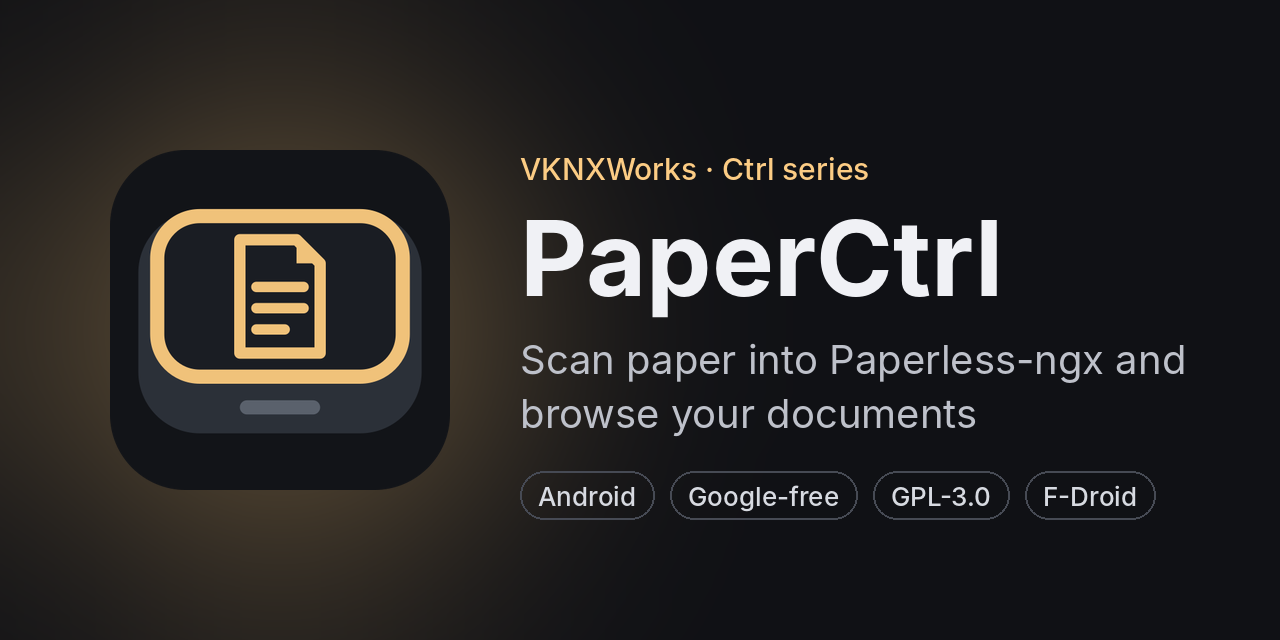
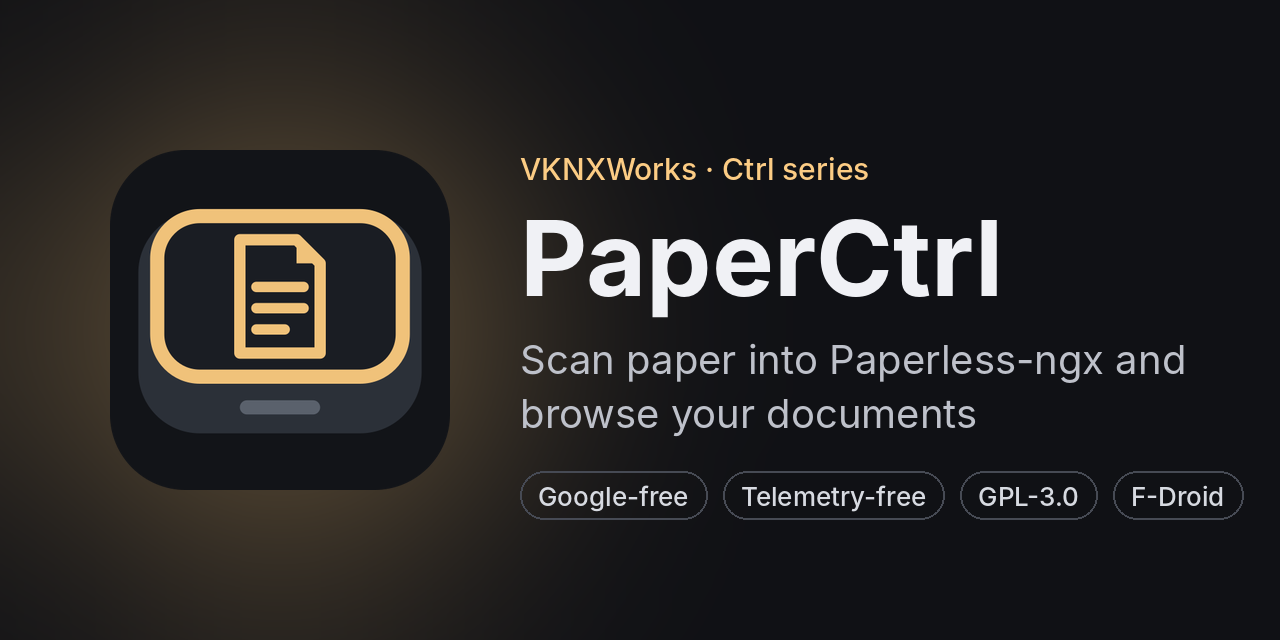
PaperCtrl 0.3.3: remove the usage stats, telemetry-free
Claude-Session: https://claude.ai/code/session_01EwhEpZ1DKRJef9Cqeiv5g2

Changed region(s): [[0.4062, 0.7188, 0.9688, 0.8125]]

diff --git a/app/src/main/java/com/vknxworks/paperctrl/share/ShareActivity.kt b/app/src/main/java/com/vknxworks/paperctrl/share/ShareActivity.kt
@@ -31,7 +31,6 @@ import com.vknxworks.paperctrl.data.api.UploadMeta
 import com.vknxworks.paperctrl.data.queue.StagedFile
 import com.vknxworks.paperctrl.data.queue.Staging
 import com.vknxworks.paperctrl.data.settings.ThemeChoice
-import com.vknxworks.paperctrl.data.telemetry.Telemetry
 import com.vknxworks.paperctrl.ui.theme.PaperCtrlTheme
 import kotlinx.coroutines.Dispatchers
 import kotlinx.coroutines.launch
@@ -128,10 +127,7 @@ class ShareActivity : ComponentActivity() {
                 }
                 // A title only makes sense for a single document.
                 val perDoc = if (docs.size == 1) meta else meta.copy(title = null)
-                // Read before queueing: the queue moves the files.
-                val stats = uploadStats(all, docs)
                 docs.forEach { c.queue.enqueue(serverId, it.file, it.name, it.mimeType, perDoc) }
-                stats.forEach { c.telemetry.track("document_uploaded", it) }
                 Toast.makeText(
                     this@ShareActivity,
                     resources.getQuantityString(R.plurals.share_queued, docs.size, docs.size),
@@ -144,40 +140,6 @@ class ShareActivity : ComponentActivity() {
                 Toast.makeText(this@ShareActivity, getString(R.string.share_prepare_failed), Toast.LENGTH_LONG).show()
             }
         }
-    }
-
-    /**
-     * Usage stats (only if the user opted in): where each document came from, roughly how many pages it
-     * has and what kind of file it is. Never its name, contents, details or server.
-     */
-    private suspend fun uploadStats(all: List<StagedFile>, docs: List<StagedFile>): List<Map<String, Any>> {
-        if (!container.telemetry.available) return emptyList()
-        val source = if (intent.getStringExtra(EXTRA_SOURCE) == SOURCE_IMPORT) "import" else "share"
-        val imageCount = all.count { it.isImage }
-        return docs.map { doc ->
-            // The PDF made by combining the shared images isn't one of the shared files.
-            val merged = doc.isPdf && all.none { it.file == doc.file }
-            val pages = when {
-                merged -> imageCount
-                doc.isImage -> 1
-                doc.isPdf -> pdfPageCount(doc.file)
-                else -> null
-            }
-            val kind = when {
-                merged -> "images_merged"
-                doc.isPdf -> "pdf"
-                doc.isImage -> "image"
-                doc.mimeType.startsWith("text/") -> "text"
-                else -> "other"
-            }
-            mapOf("source" to source, "pages" to Telemetry.pageBucket(pages), "file_kind" to kind)
-        }
-    }
-
-    private suspend fun pdfPageCount(file: File): Int? = withContext(Dispatchers.IO) {
-        runCatching {
-            ParcelFileDescriptor.open(file, ParcelFileDescriptor.MODE_READ_ONLY).use { fd -> PdfRenderer(fd).use { it.pageCount } }
-        }.getOrNull()
     }
 
     override fun onDestroy() {
@@ -215,16 +177,11 @@ class ShareActivity : ComponentActivity() {
             "application/vnd.oasis.opendocument.presentation",
         )
 
-        /** Where the files came from, for the opt-in usage stats only. */
-        private const val EXTRA_SOURCE = "com.vknxworks.paperctrl.extra.SOURCE"
-        private const val SOURCE_IMPORT = "import"
-
         /** Opens the share screen for files picked inside the app. */
         fun intent(context: Context, uris: List<Uri>): Intent =
             Intent(context, ShareActivity::class.java)
                 .setAction(Intent.ACTION_SEND_MULTIPLE)
                 .putParcelableArrayListExtra(Intent.EXTRA_STREAM, ArrayList(uris))
-                .putExtra(EXTRA_SOURCE, SOURCE_IMPORT)
                 .addFlags(Intent.FLAG_GRANT_READ_URI_PERMISSION)
     }
 }

diff --git a/app/src/main/java/com/vknxworks/paperctrl/data/settings/AppSettings.kt b/app/src/main/java/com/vknxworks/paperctrl/data/settings/AppSettings.kt
@@ -16,6 +16,7 @@ import kotlinx.coroutines.flow.SharingStarted
 import kotlinx.coroutines.flow.StateFlow
 import kotlinx.coroutines.flow.map
 import kotlinx.coroutines.flow.stateIn
+import kotlinx.coroutines.launch
 
 enum class ThemeChoice(@StringRes val label: Int) {
     SYSTEM(R.string.theme_system),
@@ -34,10 +35,6 @@ enum class PdfQualityChoice(@StringRes val label: Int, val quality: PdfQuality) 
 data class AppSettings(
     val theme: ThemeChoice = ThemeChoice.SYSTEM,
     val dynamicColor: Boolean = false,
-    /** Opt-in anonymous usage stats (off until the user says yes). */
-    val usageStats: Boolean = false,
-    /** Whether the one-time usage stats question has been answered. */
-    val usageStatsAsked: Boolean = false,
     /** Last filter picked in the scanner, used for new pages. */
     val scanFilter: ScanFilter = ScanFilter.ENHANCED,
     val autoCapture: Boolean = true,
@@ -57,8 +54,8 @@ class SettingsRepository(private val context: Context, scope: CoroutineScope) {
     private object K {
         val theme = stringPreferencesKey("theme")
         val dynamic = booleanPreferencesKey("dynamic_color")
-        val usageStats = booleanPreferencesKey("usage_stats")
-        val usageStatsAsked = booleanPreferencesKey("usage_stats_asked")
+        /** Left over from the optional stats removed in 0.3.3; deleted at start and on every save. */
+        val legacy = listOf(booleanPreferencesKey("usage_stats"), booleanPreferencesKey("usage_stats_asked"))
         val scanFilter = stringPreferencesKey("scan_filter")
         val autoCapture = booleanPreferencesKey("auto_capture")
         val pdfQuality = stringPreferencesKey("pdf_quality")
@@ -75,14 +72,17 @@ class SettingsRepository(private val context: Context, scope: CoroutineScope) {
         .map { it.toSettings() }
         .stateIn(scope, SharingStarted.Eagerly, AppSettings())
 
+    init {
+        // Delete what the removed optional stats stored, so nothing of them stays on the phone.
+        scope.launch { context.appDataStore.edit { p -> K.legacy.forEach { p.remove(it) } } }
+    }
+
     /** The stored settings as they're read and changed, without [settings]' placeholder defaults at start-up. */
     val stored: Flow<AppSettings> = context.appDataStore.data.map { it.toSettings() }
 
     private fun Preferences.toSettings() = AppSettings(
         theme = enumOr(this[K.theme], ThemeChoice.SYSTEM),
         dynamicColor = this[K.dynamic] ?: false,
-        usageStats = this[K.usageStats] ?: false,
-        usageStatsAsked = this[K.usageStatsAsked] ?: false,
         scanFilter = enumOr(this[K.scanFilter], ScanFilter.ENHANCED),
         autoCapture = this[K.autoCapture] ?: true,
         pdfQuality = enumOr(this[K.pdfQuality], PdfQualityChoice.STANDARD),
@@ -100,8 +100,7 @@ class SettingsRepository(private val context: Context, scope: CoroutineScope) {
             val s = transform(p.toSettings())
             p[K.theme] = s.theme.name
             p[K.dynamic] = s.dynamicColor
-            p[K.usageStats] = s.usageStats
-            p[K.usageStatsAsked] = s.usageStatsAsked
+            K.legacy.forEach { p.remove(it) }
             p[K.scanFilter] = s.scanFilter.name
             p[K.autoCapture] = s.autoCapture
             p[K.pdfQuality] = s.pdfQuality.name

diff --git a/app/src/main/java/com/vknxworks/paperctrl/ui/nav/AppRoot.kt b/app/src/main/java/com/vknxworks/paperctrl/ui/nav/AppRoot.kt
@@ -66,7 +66,6 @@ import com.vknxworks.paperctrl.R
 import com.vknxworks.paperctrl.ui.components.LocalBottomClearance
 import com.vknxworks.paperctrl.ui.components.LocalHazeState
 import com.vknxworks.paperctrl.ui.settings.SettingsScreen
-import com.vknxworks.paperctrl.ui.settings.UsageStatsPrompt
 import com.vknxworks.paperctrl.ui.settings.YouScreen
 import com.vknxworks.paperctrl.ui.docs.DocumentsTab
 import com.vknxworks.paperctrl.ui.inbox.InboxTab
@@ -126,13 +125,6 @@ private fun MainScaffold() {
 
     val c = LocalContext.current.container
 
-    // Usage stats (only if the user opted in): the kind of screen, never what it shows.
-    val entryId = backStack?.id
-    val screen = dest?.route?.let(::screenName)
-    LaunchedEffect(entryId) {
-        if (screen != null) c.telemetry.track("screen_viewed", mapOf("screen" to screen))
-    }
-    UsageStatsPrompt()
 
     // A notification, shortcut, widget or tile asked for a screen.
     val pendingOpen by c.pendingOpen.collectAsStateWithLifecycle()
@@ -224,9 +216,6 @@ private fun PhoneLayout(
     }
 }
 
-/** "com.vknxworks.paperctrl.ui.nav.QueueRoute" -> "Queue". Only the route's class name, never its arguments. */
-private fun screenName(route: String): String =
-    route.substringBefore('/').substringBefore('?').substringAfterLast('.').removeSuffix("Route")
 
 @Composable
 private fun AppNavHost(navController: NavHostController) {

diff --git a/app/src/main/java/com/vknxworks/paperctrl/scan/ScanReviewScreen.kt b/app/src/main/java/com/vknxworks/paperctrl/scan/ScanReviewScreen.kt
@@ -69,7 +69,6 @@ import com.vknxworks.paperctrl.R
 import com.vknxworks.paperctrl.container
 import com.vknxworks.paperctrl.data.api.UploadMeta
 import com.vknxworks.paperctrl.data.queue.Staging
-import com.vknxworks.paperctrl.data.telemetry.Telemetry
 import com.vknxworks.paperctrl.ui.components.ConfirmDialog
 import com.vknxworks.paperctrl.ui.components.Group
 import com.vknxworks.paperctrl.ui.components.GroupRow
@@ -336,10 +335,6 @@ private fun UploadSheet(pageCount: Int, onDismiss: () -> Unit) {
                                     c.scan.writePdf(pdf, settings.pdfQuality.quality)
                                     c.queue.enqueue(id, pdf, "Scan ${Staging.timestamp()}.pdf", "application/pdf", if (details) meta else UploadMeta())
                                     c.queue.discardStaging(dir)
-                                    c.telemetry.track(
-                                        "document_uploaded",
-                                        mapOf("source" to "scan", "pages" to Telemetry.pageBucket(pageCount), "kind" to "scan"),
-                                    )
                                 }.isSuccess
                                 if (ok) {
                                     c.scan.clear()

diff --git a/app/src/main/java/com/vknxworks/paperctrl/ui/settings/SettingsScreen.kt b/app/src/main/java/com/vknxworks/paperctrl/ui/settings/SettingsScreen.kt
@@ -84,16 +84,6 @@ fun SettingsScreen() {
                 GroupSwitch(stringResource(R.string.settings_secure), stringResource(R.string.settings_secure_body), s.secureScreens) { v -> update { it.copy(secureScreens = v) } }
             }
 
-            if (c.telemetry.available) {
-                Group(stringResource(R.string.settings_usage_stats), footer = stringResource(R.string.usage_stats_description)) {
-                    GroupSwitch(
-                        stringResource(R.string.settings_usage_stats_switch),
-                        stringResource(R.string.settings_usage_stats_body),
-                        s.usageStats,
-                    ) { v -> update { it.copy(usageStats = v, usageStatsAsked = true) } }
-                }
-            }
-
             Group(stringResource(R.string.settings_appearance)) {
                 GroupChoice(
                     stringResource(R.string.settings_theme),

diff --git a/app/src/main/java/com/vknxworks/paperctrl/AppContainer.kt b/app/src/main/java/com/vknxworks/paperctrl/AppContainer.kt
@@ -7,7 +7,6 @@ import com.vknxworks.paperctrl.data.queue.UploadQueue
 import com.vknxworks.paperctrl.data.net.CleartextPolicy
 import com.vknxworks.paperctrl.data.net.RedirectGuard
 import com.vknxworks.paperctrl.data.settings.SettingsRepository
-import com.vknxworks.paperctrl.data.telemetry.Telemetry
 import com.vknxworks.paperctrl.scan.ScanSession
 import com.vknxworks.paperctrl.data.files.DocumentFiles
 import com.vknxworks.paperctrl.data.files.ListCache
@@ -38,7 +37,6 @@ class AppContainer(val context: Context) {
         .build()
 
     val settings = SettingsRepository(context, appScope)
-    val telemetry = Telemetry(context, settings, appScope)
     val sessions = SessionManager(context, http, appScope)
     val metadata = MetadataRepository()
     val queue = UploadQueue(context)

diff --git a/app/src/main/java/com/vknxworks/paperctrl/MainActivity.kt b/app/src/main/java/com/vknxworks/paperctrl/MainActivity.kt
@@ -33,7 +33,6 @@ class MainActivity : FragmentActivity() {
         // Document titles, file names and the sign-in screen never show in the recent-apps preview.
         setRecentsScreenshotEnabled(false)
         val c = container
-        if (savedInstanceState == null) c.telemetry.appOpened()
         handleOpen(intent)
         if (savedInstanceState == null) {
             Shortcuts.publish(this)

diff --git a/README.md b/README.md
@@ -2,7 +2,7 @@
 
 **Scan paper into Paperless-ngx and browse your documents.**
 
-[![Latest release](https://img.shields.io/github/v/release/VoidedKN0X/PaperCtrl?label=download)](https://github.com/VoidedKN0X/PaperCtrl/releases/latest) ![Android 13+](https://img.shields.io/badge/Android-13%2B-3DDC84?logo=android&logoColor=white) [![License: GPL-3.0](https://img.shields.io/badge/license-GPL--3.0-blue)](LICENSE) [![Sponsor](https://img.shields.io/badge/sponsor-GitHub-ea4aaa?logo=githubsponsors&logoColor=white)](https://github.com/sponsors/VoidedKN0X)
+[![Latest release](https://img.shields.io/github/v/release/VoidedKN0X/PaperCtrl?label=download)](https://github.com/VoidedKN0X/PaperCtrl/releases/latest) ![Android 13+](https://img.shields.io/badge/Android-13%2B-3DDC84?logo=android&logoColor=white) [![License: GPL-3.0](https://img.shields.io/badge/license-GPL--3.0-blue)](LICENSE) ![Telemetry-free](https://img.shields.io/badge/telemetry-none-brightgreen) [![Sponsor](https://img.shields.io/badge/sponsor-GitHub-ea4aaa?logo=githubsponsors&logoColor=white)](https://github.com/sponsors/VoidedKN0X)
 
 PaperCtrl is an Android app for self-hosted [Paperless-ngx](https://docs.paperless-ngx.com/) servers: a document scanner that gets paper into Paperless in a few taps, and a fast document browser made for your phone.
 
@@ -77,17 +77,9 @@ PaperCtrl tells you about its own uploads by itself. To also hear about document
 
 If your ntfy server is only on your home network, Paperless blocks webhooks to local addresses by default: set `PAPERLESS_WEBHOOKS_ALLOW_INTERNAL_REQUESTS=true` on the server, or use ntfy's public HTTPS address. Tapping a notification opens the document.
 
-## Usage stats
+## Privacy
 
-PaperCtrl can share anonymous usage stats, **only if you say yes**. It asks once after you connect to your server, and you can change it any time in **You → Settings → Usage stats**.
-
-- **Shared:** which screens you open (the kind of screen, never what's on it), and for each upload whether it came from the scanner, from sharing or from **Upload files**, a rough page count (1, 2–5 or 6+) and the kind of file (PDF, image, text…). Also the app version, Android version, phone model, language, phone or tablet, and your theme setting.
-- **Never shared:** your server address, username, password or token, anything about your documents (titles, contents, tags, correspondents, file names, IDs), search text, or any ID that stays the same between sessions.
-- **Where:** VKNXWorks' own self-hosted [Aptabase](https://aptabase.com) server. Nothing goes to Google or analytics companies. Like any website, the server sees your IP address; Aptabase uses it only to work out the country and doesn't store it.
-
-Builds from source don't include the stats key, so they can't send anything and the setting is hidden. The code is in [`Telemetry.kt`](app/src/main/java/com/vknxworks/paperctrl/data/telemetry/Telemetry.kt).
-
-Apart from these opt-in stats, PaperCtrl only talks to your own Paperless-ngx server. Push notifications come through your own ntfy server (or another UnifiedPush app), and **Send a test** posts to PaperCtrl's push address there. Scanning, edge detection and ASN reading all happen on the phone.
+**Telemetry-free.** PaperCtrl has no analytics, crash reporting, usage stats or tracking of any kind. It only talks to your own Paperless-ngx server. Push notifications come through your own ntfy server (or another UnifiedPush app), and **Send a test** posts to PaperCtrl's push address there. Scanning, edge detection and ASN reading all happen on the phone.
 
 ## Build from source
 

diff --git a/CHANGELOG.md b/CHANGELOG.md
@@ -1,10 +1,15 @@
 # Changelog
 
-## Unreleased
+## 0.3.3
+
+### Privacy
+
+- **No more usage stats: PaperCtrl is now telemetry-free.** The optional anonymous usage stats are gone completely, along with the Usage stats setting and the one-time question. The app no longer contacts VKNXWorks' stats server at all, and the settings it used are deleted from your phone when you update. PaperCtrl now only talks to your own Paperless-ngx server, and to your ntfy server if you use push notifications.
 
 ### Changed
 
 - **README**: a Screenshots section (screenshots are coming soon), and a link preview image (`.github/assets/social-preview.png`) with PaperCtrl's icon, name and summary, for when the repo is shared on Reddit, Discord or elsewhere
+- **README**: a Privacy section and a Telemetry-free badge replace the Usage stats section, and the link preview image has a Telemetry-free tag
 
 ## 0.3.2
 
